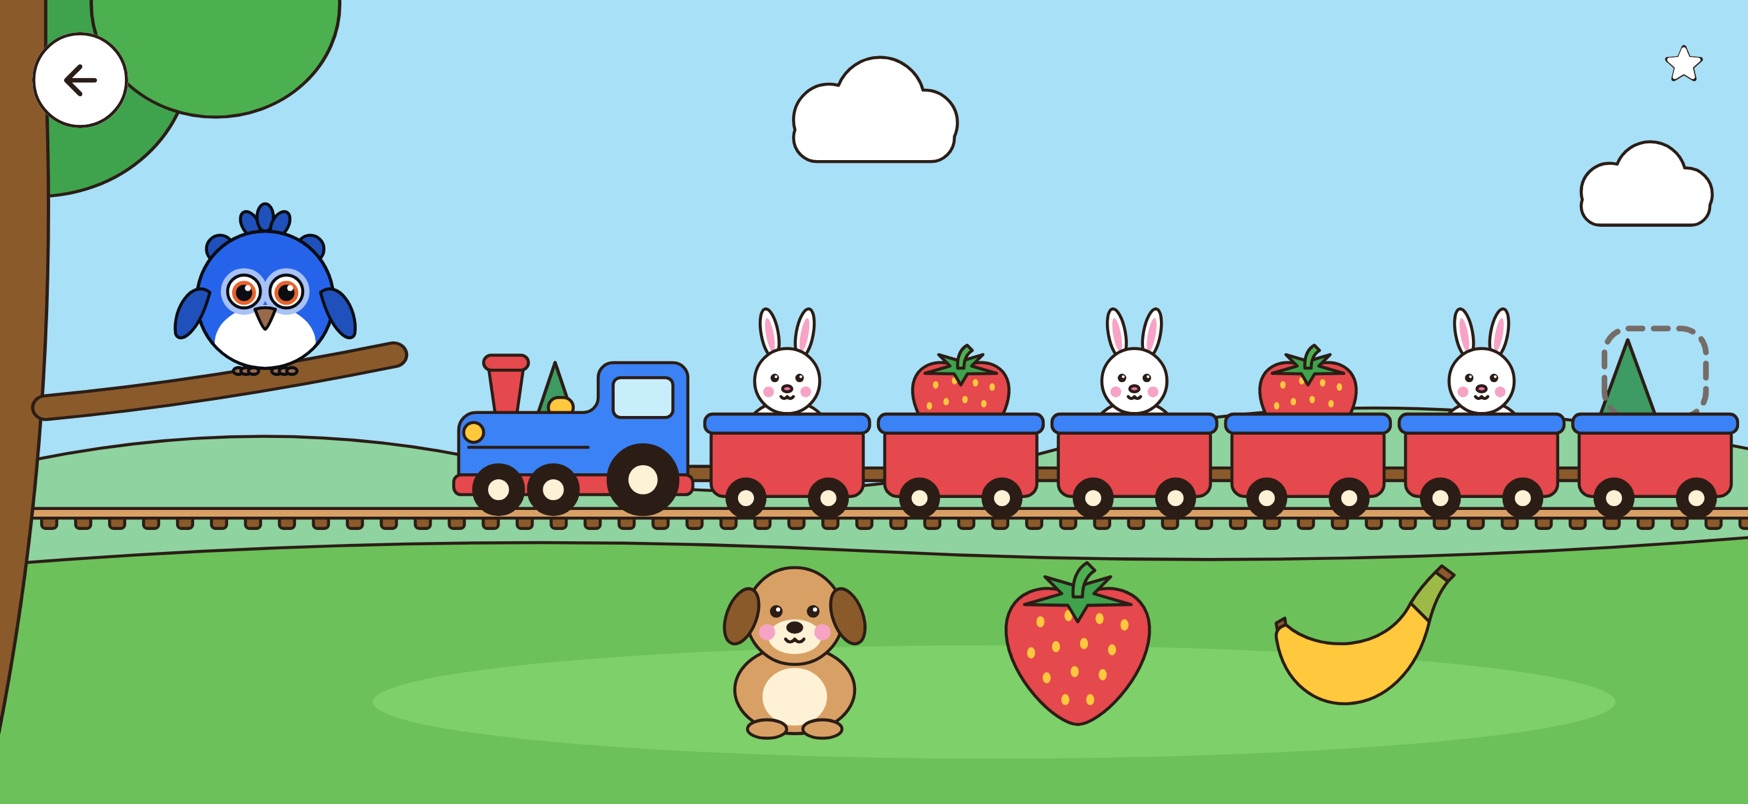
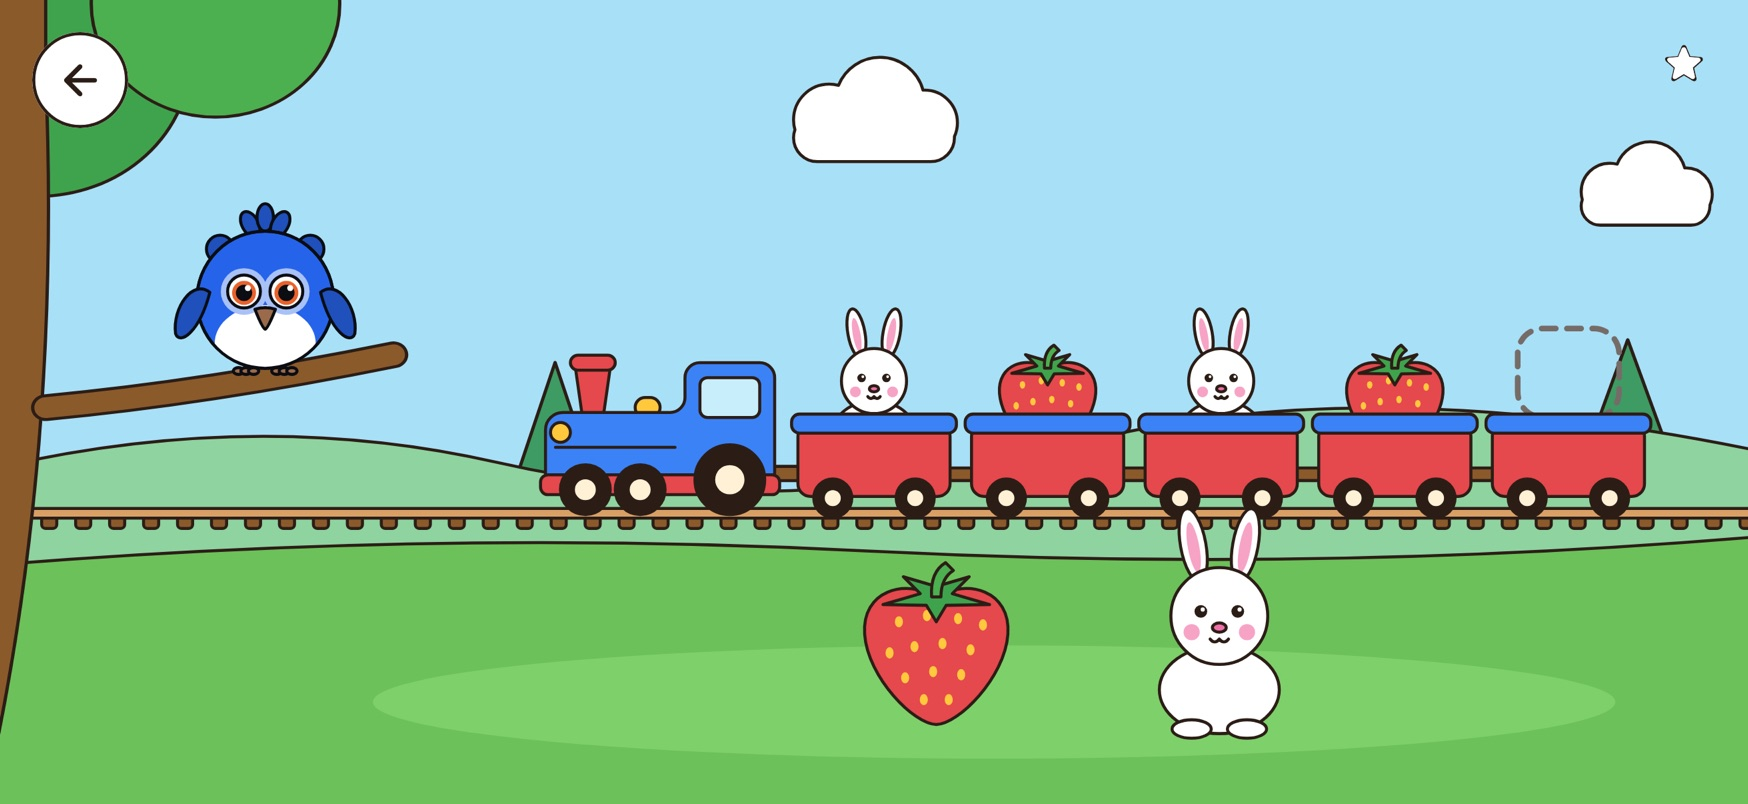
The train picture shows a level the game plays
The pair twice, an empty wagon and two riders to choose from, with alt
text to match.

Changed region(s): [[0.2471, 0.3731, 1.0, 0.9328]]

diff --git a/index.html b/index.html
@@ -176,7 +176,7 @@
           <figcaption lang="uk">Форми</figcaption><figcaption lang="en">Shapes</figcaption></figure>
         <figure><img class="shot" src="img/puzzle.jpg" width="1748" height="804" loading="lazy" alt="Puzzle: four pieces of a cow picture">
           <figcaption lang="uk">Пазл</figcaption><figcaption lang="en">Puzzle</figcaption></figure>
-        <figure><img class="shot" src="img/train.jpg" width="1748" height="804" loading="lazy" alt="What comes next: a little train with a rabbit, a strawberry, a rabbit, a strawberry, a rabbit and an empty wagon">
+        <figure><img class="shot" src="img/train.jpg" width="1748" height="804" loading="lazy" alt="What comes next: a little train with a rabbit, a strawberry, a rabbit, a strawberry and an empty wagon, and a strawberry and a rabbit to choose from">
           <figcaption lang="uk">Що буде далі</figcaption><figcaption lang="en">What comes next</figcaption></figure>
         <figure><img class="shot" src="img/feed.jpg" width="1748" height="804" loading="lazy" alt="Feeding: a squirrel, a mouse, a rabbit and a dog with a carrot, a nut, a bone and cheese">
           <figcaption lang="uk">Нагодуй звірят</figcaption><figcaption lang="en">Feeding</figcaption></figure>
